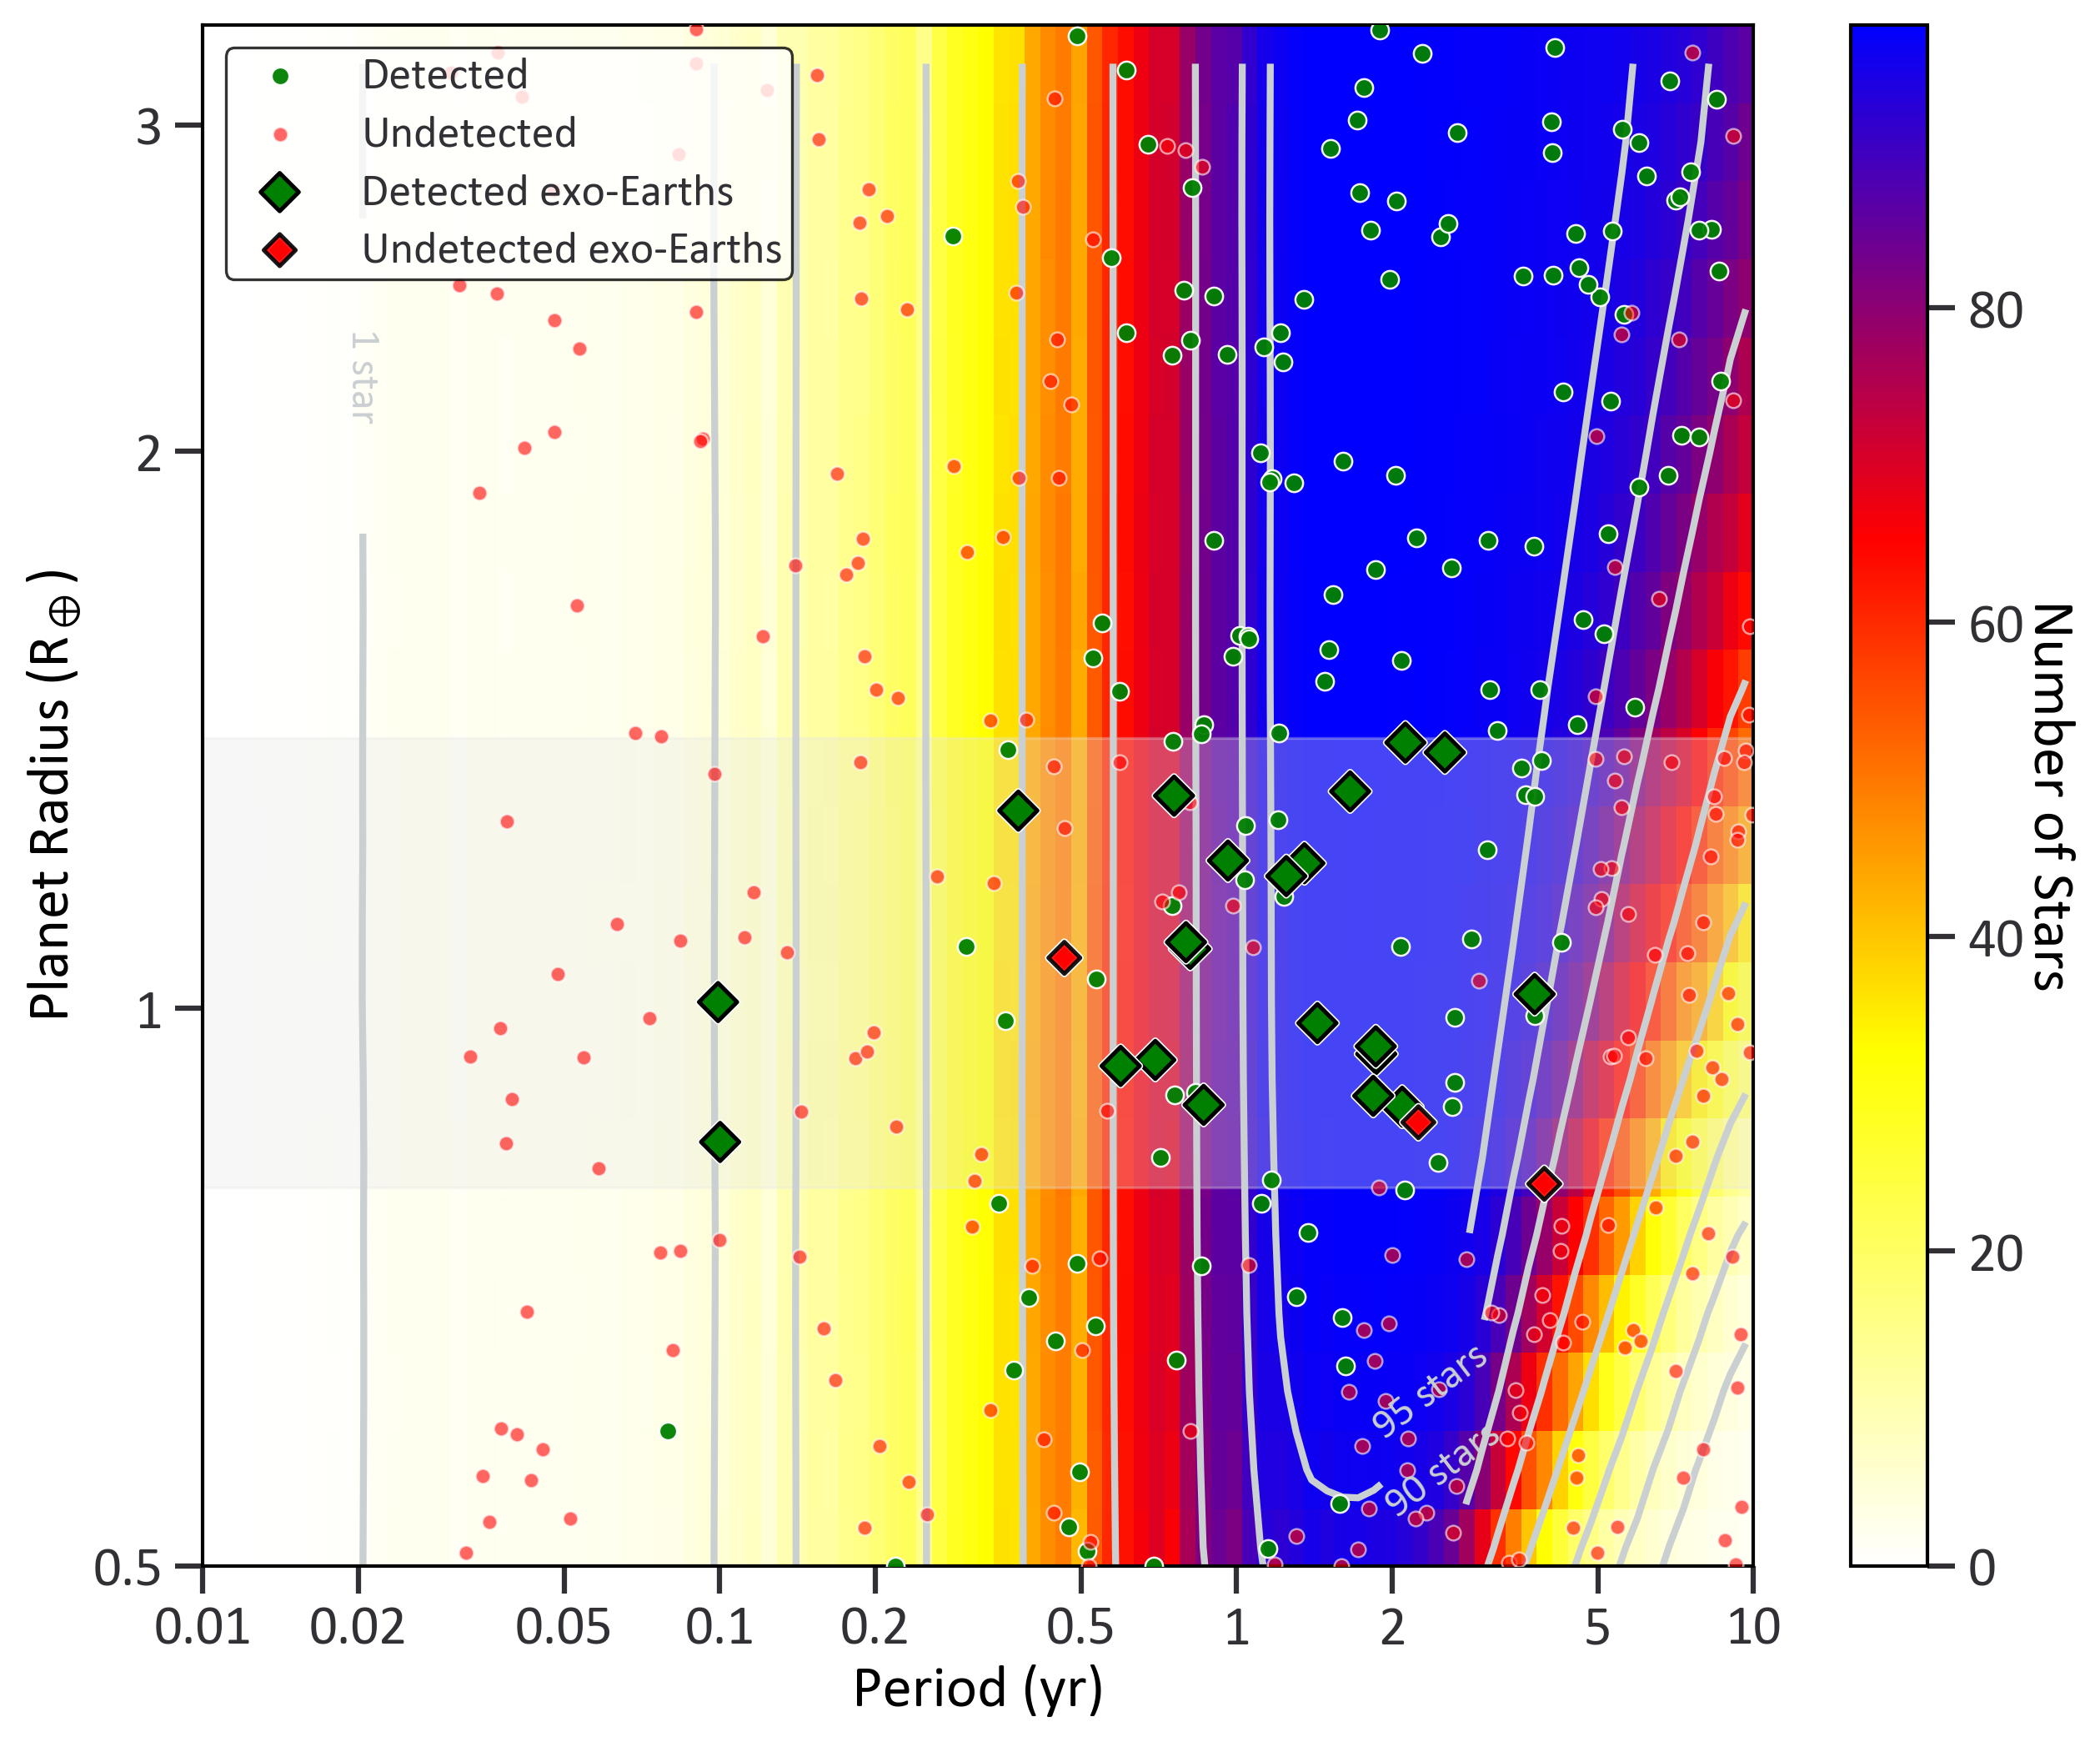
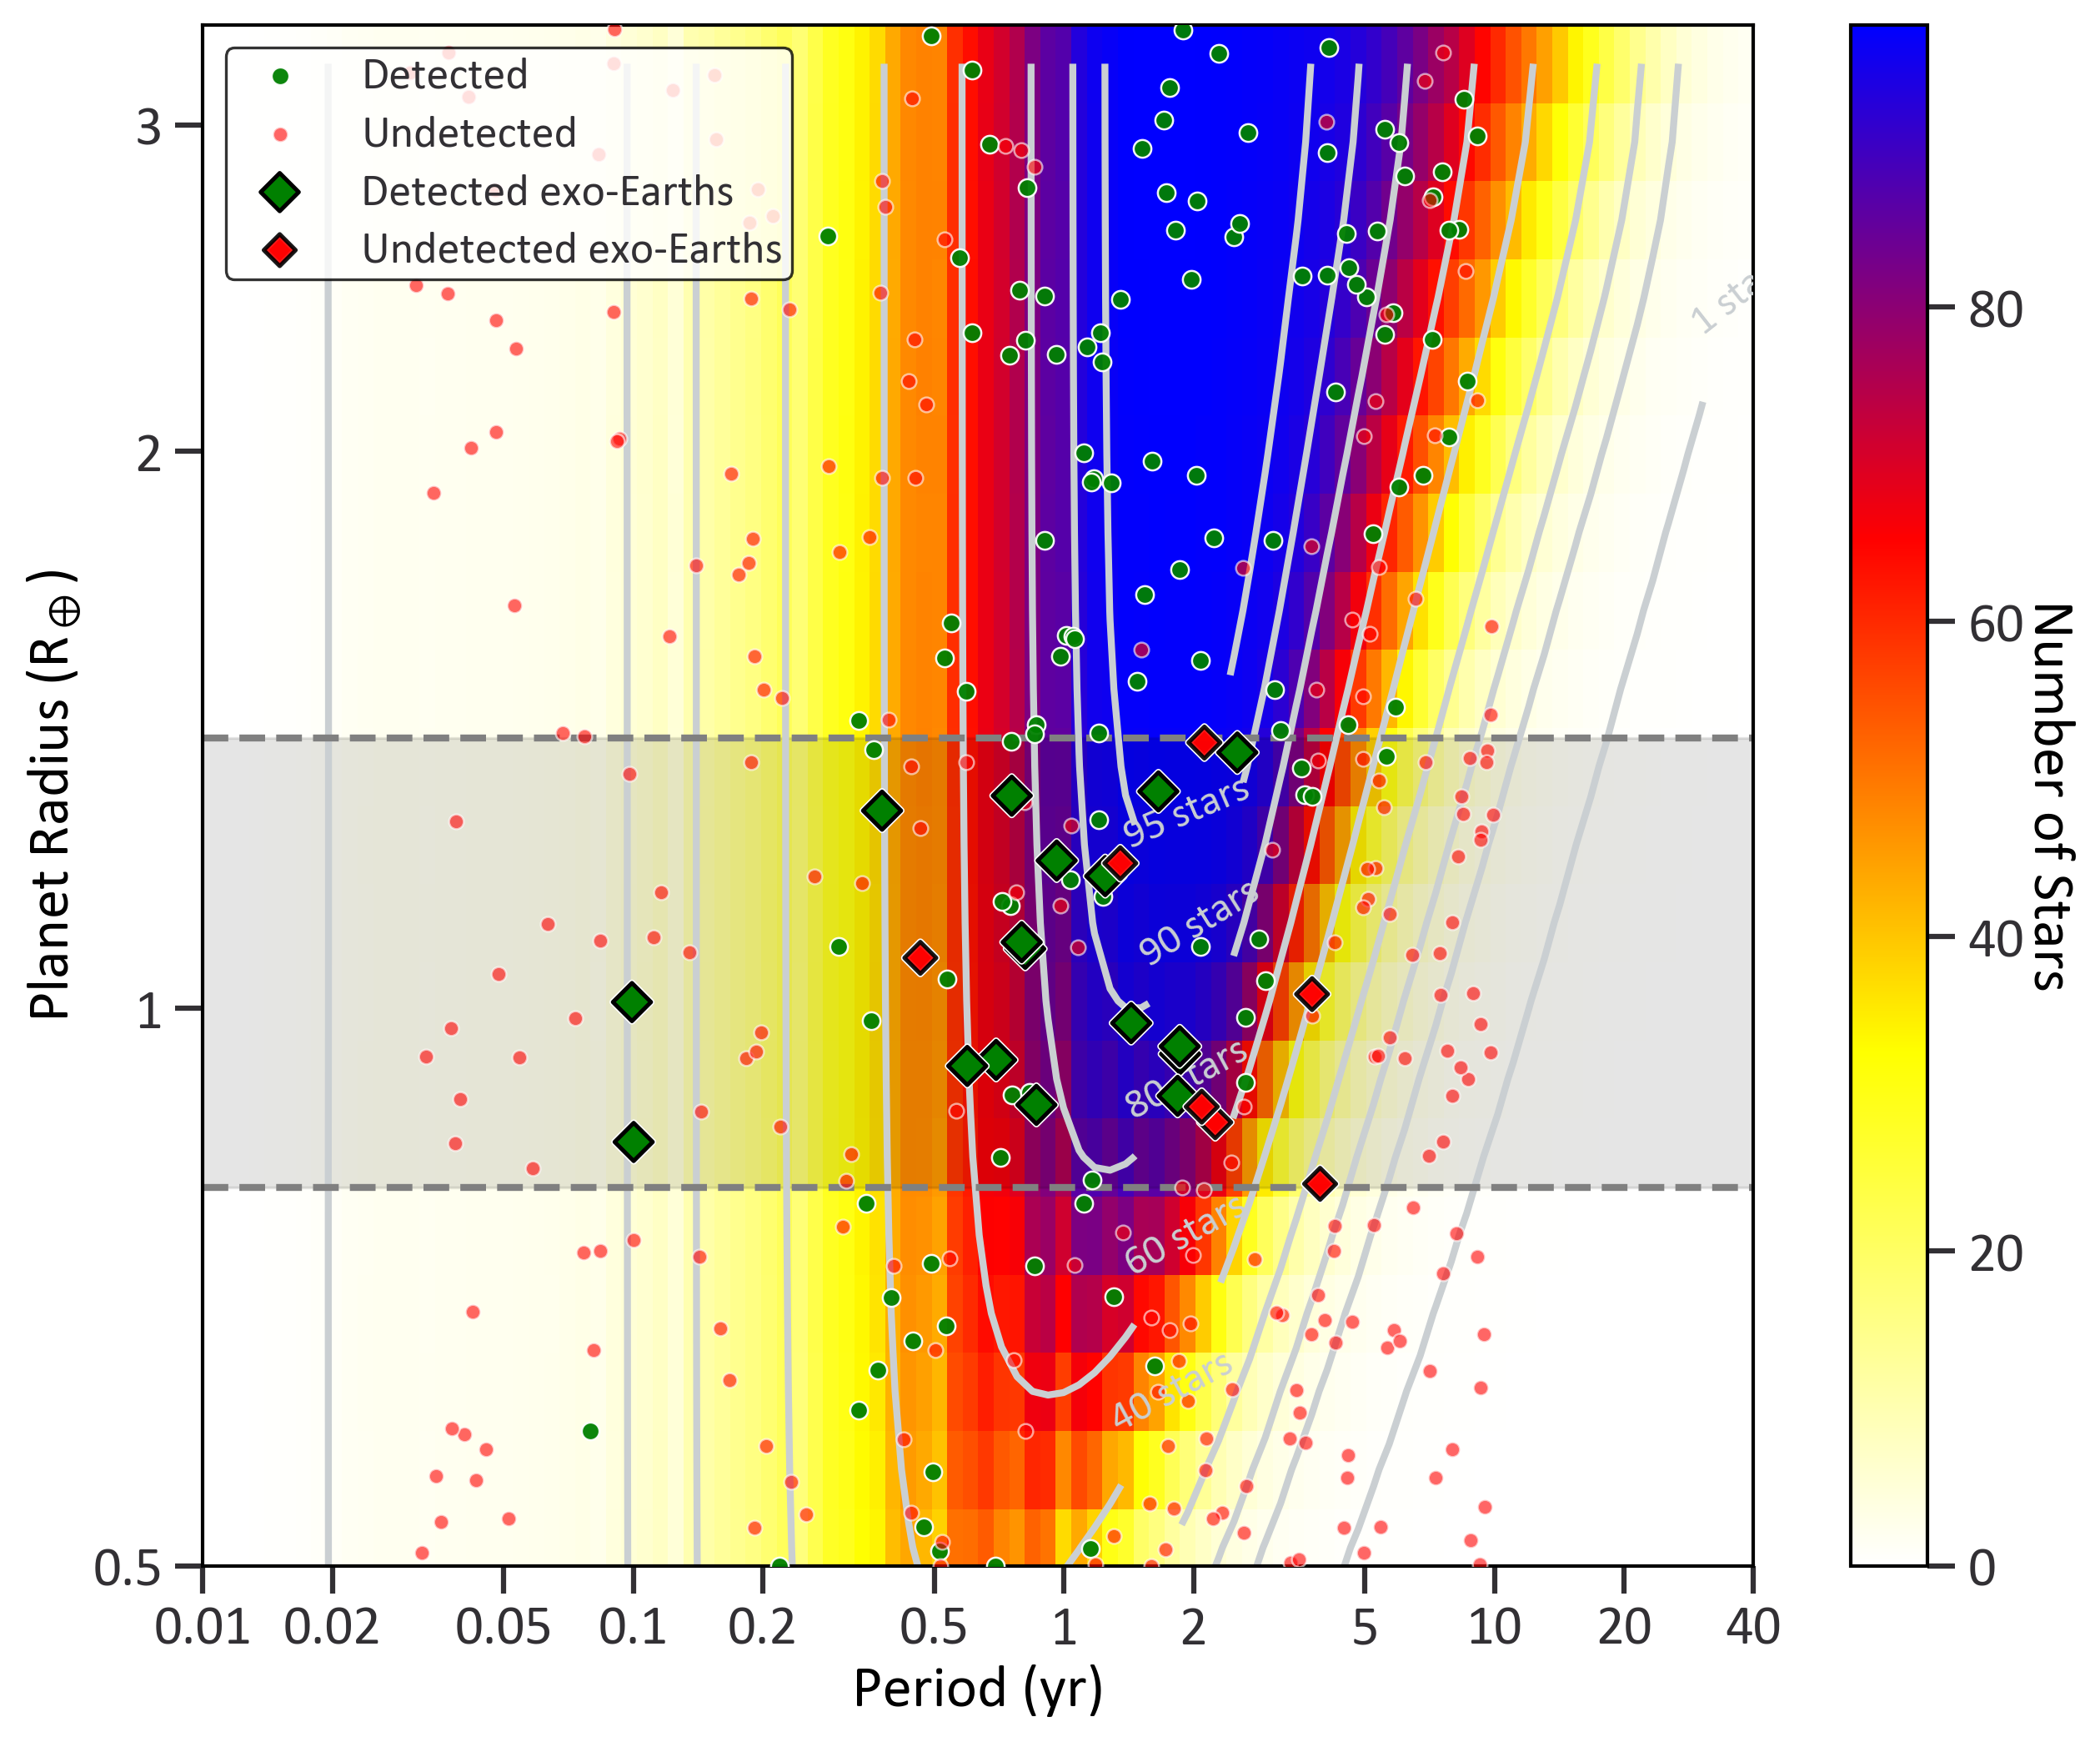
Scripts for Fig 9

diff --git a/Fig 9 - Fiducial Tongue Plot w Planets/Plot Planets on Tongue Plot.py b/Fig 9 - Fiducial Tongue Plot w Planets/Plot Planets on Tongue Plot.py
@@ -95,7 +95,7 @@ im = ax.imshow(completeness_2d,
                cmap=ylrdblu_cmap)
 
 # Smooth and draw contours
-smoothed      = gaussian_filter(completeness_2d, sigma=1.0)
+smoothed      = gaussian_filter(completeness_2d, sigma=2.0)
 star_contours = [1, 5, 10, 20, 40, 60, 80, 90, 95]      # Number of stars for which contour lines are drawn
 
 # Contour definition
@@ -194,6 +194,8 @@ ax.scatter(np.log10(und_exo['P']), np.log10(und_exo['Rp_REarth']),
 
 # --- Soft band to guide the eye for exo-Earth radii ---
 ax.axhspan(np.log10(0.8), np.log10(1.4), color='black', alpha=0.1, zorder=0)
+plt.axhline(y = np.log10(0.8), ls = "--", color = "grey")
+plt.axhline(y = np.log10(1.4), ls = "--", color = "grey")
 
 ax.legend(loc = 'upper left')
 # ------------------------------------------------------------------------------- #